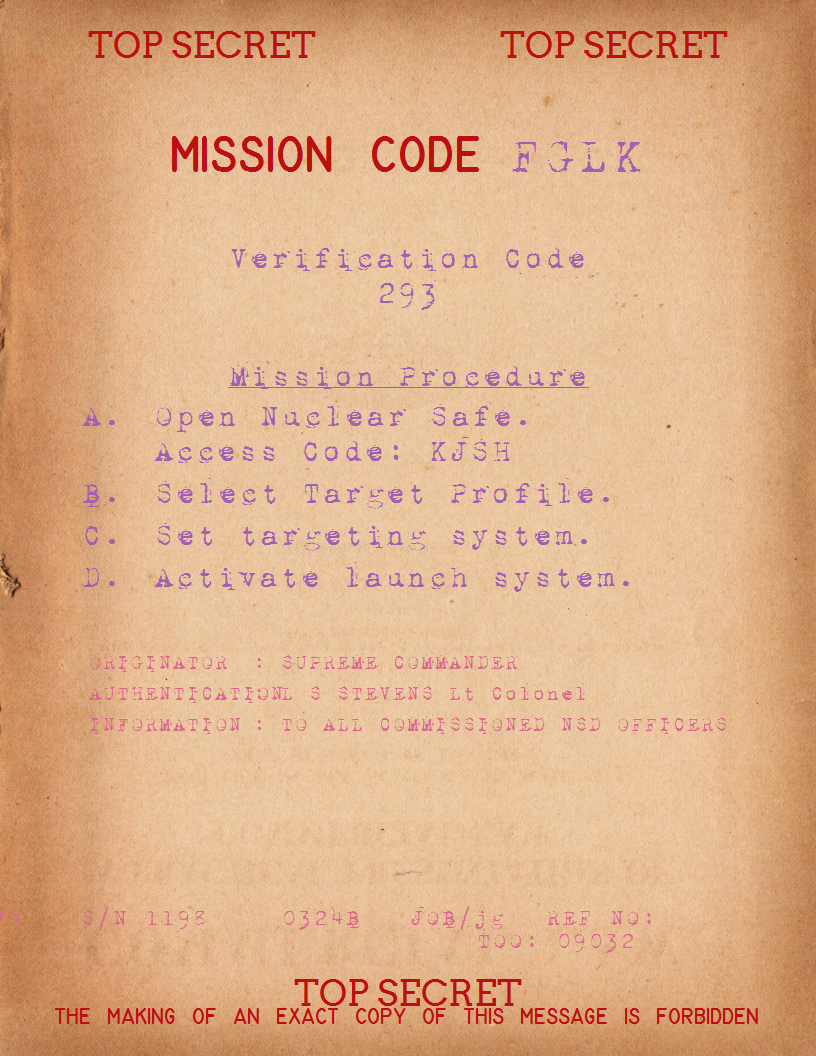
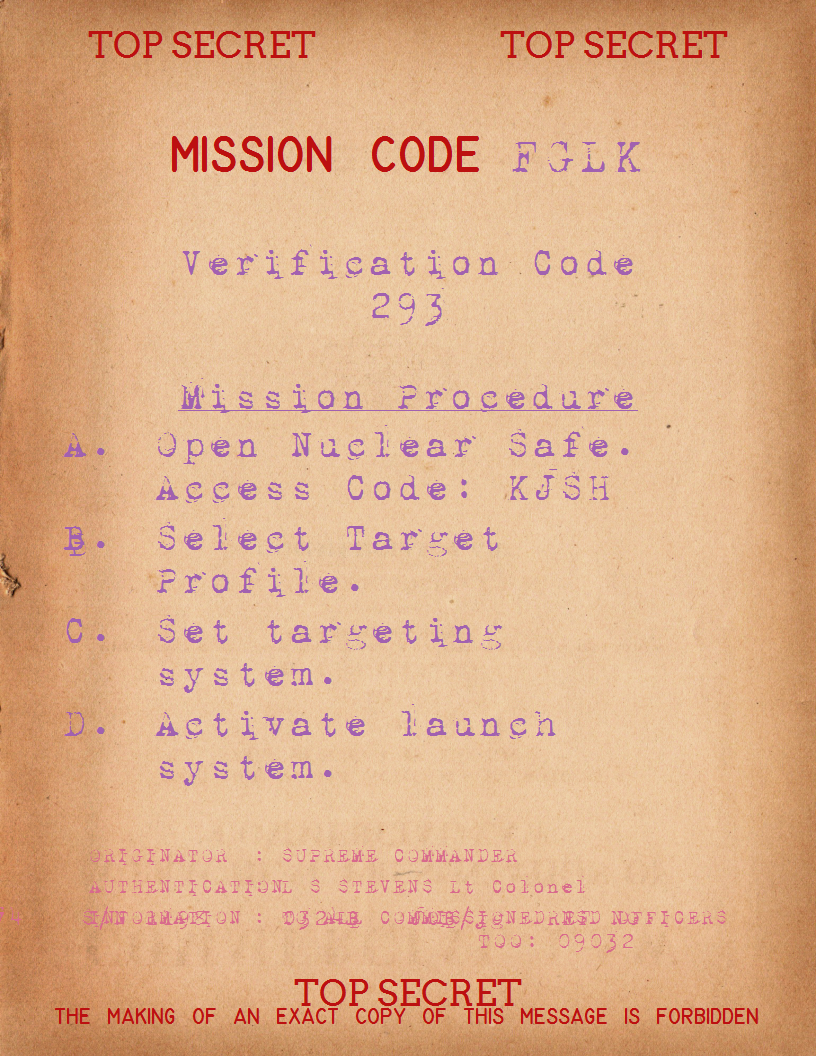
larger text

diff --git a/Assets/_Documents/style.css b/Assets/_Documents/style.css
@@ -86,7 +86,7 @@
       width: 80%;
       margin: 0px auto;
       text-align: center;
-      font-size: 33px;
+      font-size: 42px;
       box-sizing: border-box;
     }
 
